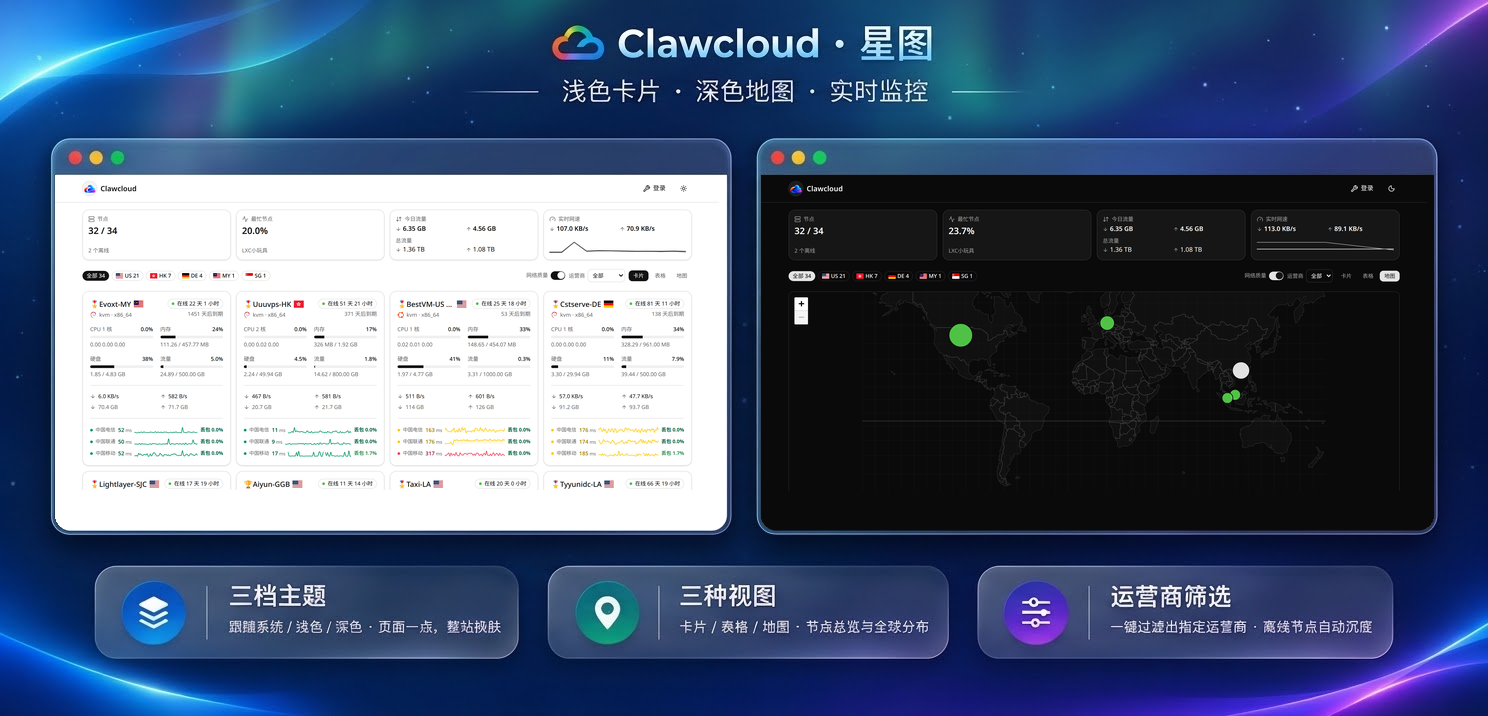
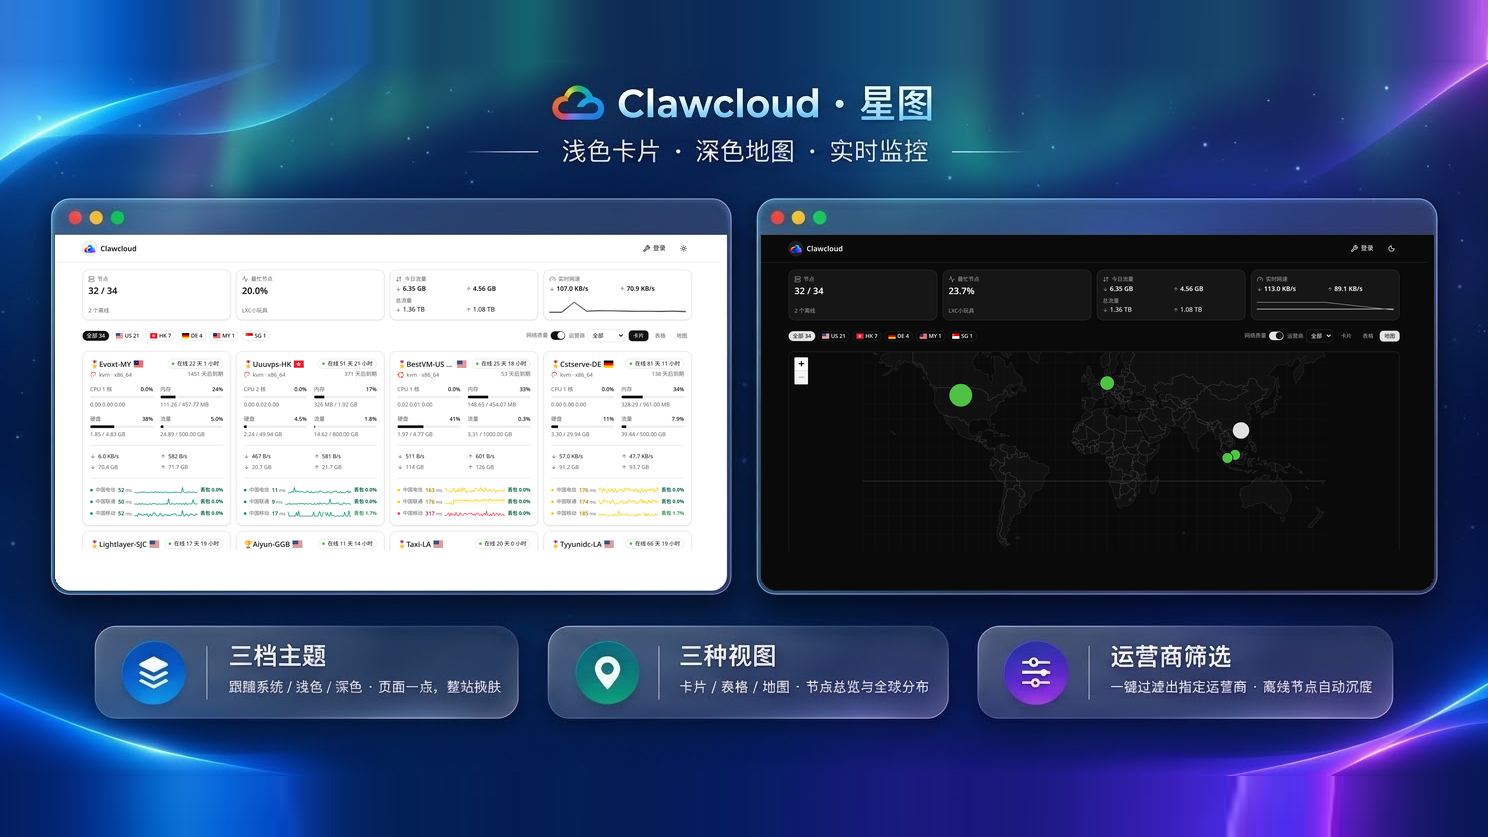
chore: 升到 2.1.12，预览图改成 16:9

diff --git a/CHANGELOG.md b/CHANGELOG.md
@@ -4,6 +4,11 @@
 
 ## [Unreleased]
 
+## [2.1.12] - 2026-11-11
+
+### 变更
+- 预览图改成 16:9，hub 列表里不再裁切两边。
+
 ## [2.1.11] - 2026-11-11
 
 ### 变更
